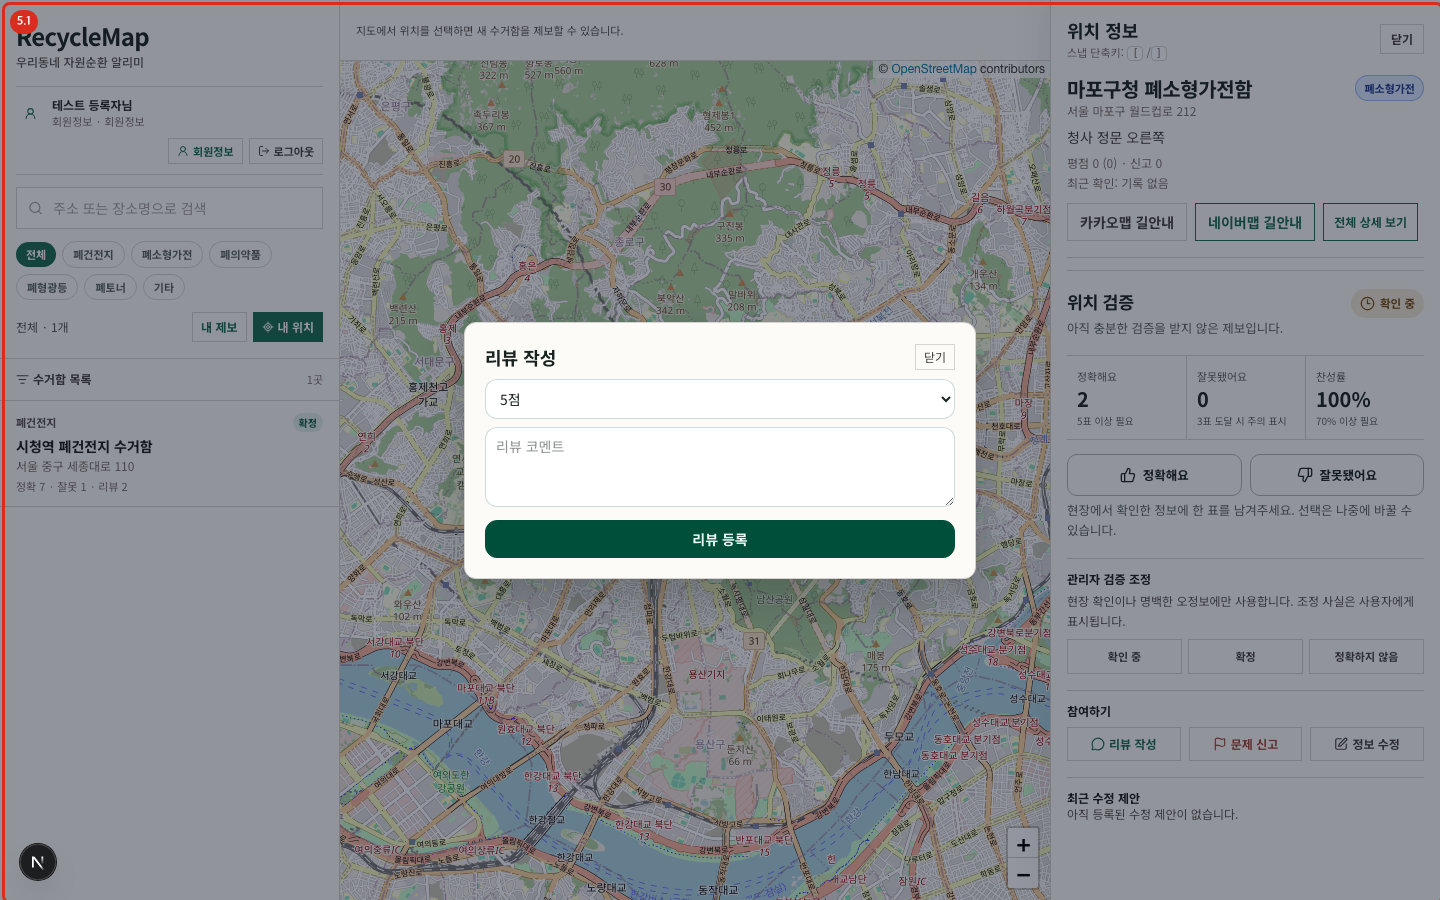
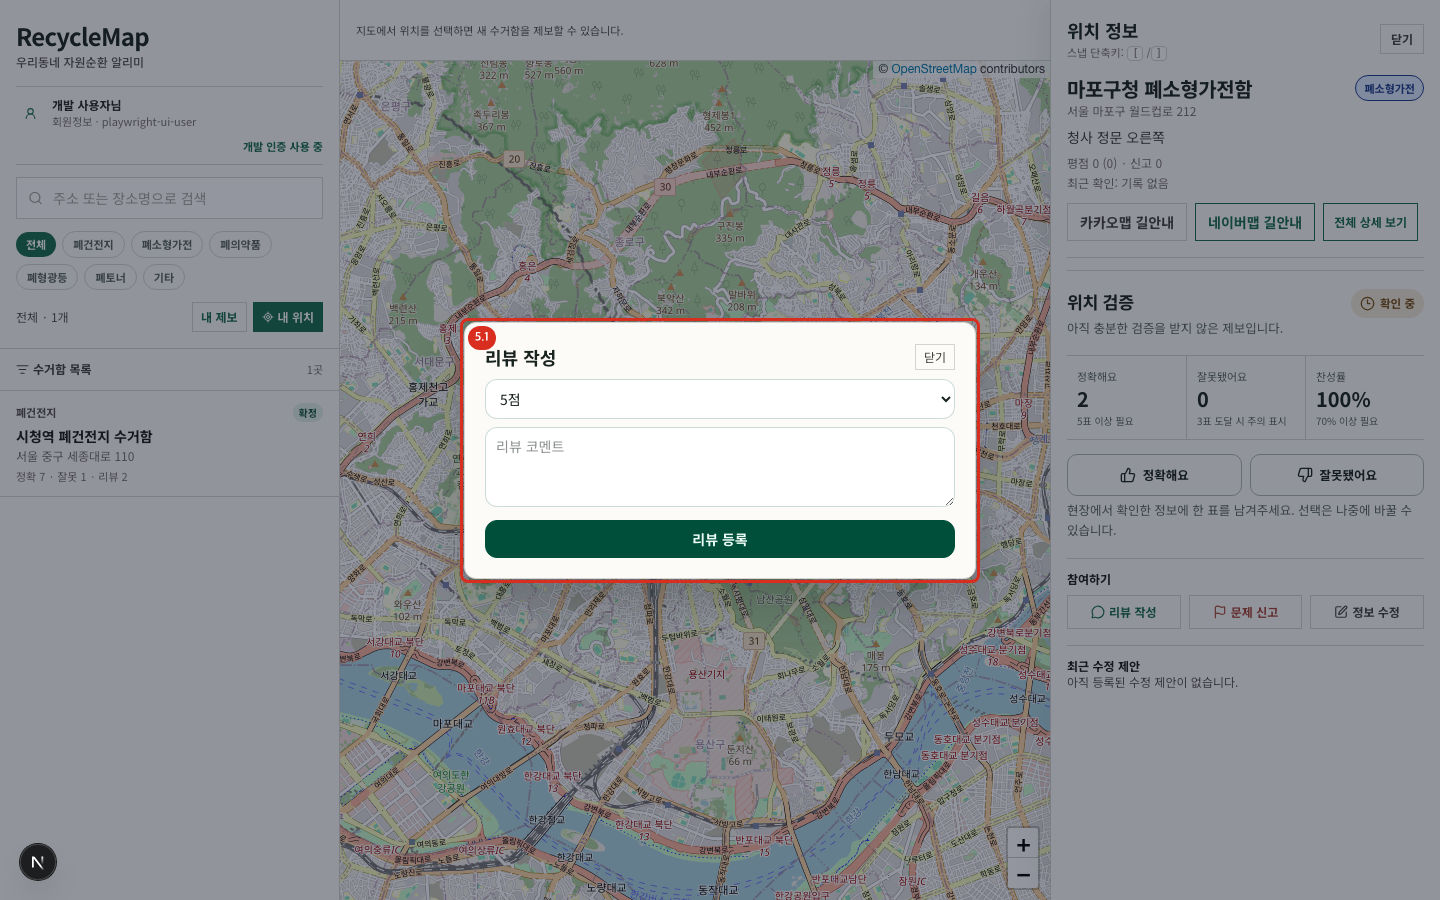
docs: finalize security operations manual

diff --git a/docs/manual/coverage-matrix.md b/docs/manual/coverage-matrix.md
@@ -30,6 +30,7 @@
 | REG-03 | 로그인 사용자 | 사진 업로드 | covered | [04](./04-register-location.md), [09](./09-qa-and-recovery.md) |
 | REG-04 | 로그인 사용자 | 50m 동일 분류 중복 | covered | [04](./04-register-location.md), `04-register-duplicate.png` |
 | REG-05 | 로그인 사용자 | 일일·요청 제한 | covered | [04](./04-register-location.md), [09](./09-qa-and-recovery.md) |
+| REG-06 | 로그인 사용자 | production signed upload·객체 검증 실패 | documented-limitation | [04](./04-register-location.md), [09](./09-qa-and-recovery.md): staging Supabase 필요 |
 | CONTRIB-01 | 로그인 사용자 | 리뷰 작성 | covered | [05](./05-reviews-reports-suggestions.md), `05-review-dialog.png` |
 | CONTRIB-02 | 로그인 사용자 | 문제 신고 | covered | [05](./05-reviews-reports-suggestions.md), `05-report-dialog.png` |
 | CONTRIB-03 | 로그인 사용자 | 정보 수정 제안 | covered | [05](./05-reviews-reports-suggestions.md), `05-suggestion-dialog.png` |
@@ -39,17 +40,20 @@
 | AUTH-01 | 방문자 | 테스트 계정 로그인 | covered | [07](./07-login-and-account.md), `07-login.png` |
 | AUTH-02 | 방문자 | 잘못된 계정 정보 | covered | [07](./07-login-and-account.md), `07-login-error.png` |
 | AUTH-03 | 방문자 | Google·Kakao·Naver 제공자 화면 | documented-limitation | [07](./07-login-and-account.md): 외부 제공자 UI |
+| AUTH-04 | 기존 사용자 | legacy OAuth 승인 매핑 실패 | documented-limitation | [07](./07-login-and-account.md), [09](./09-qa-and-recovery.md): 운영 인증 로그 필요 |
 | ACCOUNT-01 | 로그인 사용자 | 회원정보·빠른 이동·로그아웃 | covered | [07](./07-login-and-account.md), `07-account.png` |
 | ADMIN-01 | 관리자 | 관리자 접근 제어 | covered | [08](./08-admin-operations.md), [09](./09-qa-and-recovery.md) |
 | ADMIN-02 | 관리자 | 신고 필터·해결·기각 | covered | [08](./08-admin-operations.md), `08-admin-reports.png` |
 | ADMIN-03 | 관리자 | 제안 필터·적용·기각 | covered | [08](./08-admin-operations.md), `08-admin-suggestions.png` |
 | QA-01 | 운영자 | 자동 릴리스 검사 | covered | [09](./09-qa-and-recovery.md) |
 | QA-02 | 운영자 | DB·지도·업로드 장애 복구 | covered | [09](./09-qa-and-recovery.md) |
+| OPS-01 | 운영자 | migration·legacy 매핑·재암호화 전환 | covered | [09](./09-qa-and-recovery.md), [시스템 구조](../architecture.md) |
+| OPS-02 | 운영자 | 만료 업로드 정리 scheduler | covered | [09](./09-qa-and-recovery.md) |
 
 ## 집계
 
-- 전체: 41
-- covered: 38
-- documented-limitation: 3
+- 전체: 45
+- covered: 40
+- documented-limitation: 5
 - out-of-scope: 0
 - 미분류: 0

diff --git a/docs/manual/04-register-location.md b/docs/manual/04-register-location.md
@@ -25,7 +25,9 @@
 | 분류 | 실제 수거 품목과 일치하는 한 가지 분류 |
 | 주소 | 선택 사항. `주소 검색 (Daum 우편번호)`으로 찾거나 확인된 주소 입력 |
 | 상세 설명 | 운영 시간, 건물 안 위치, 접근 방법 등 현장 확인에 유용한 정보 |
-| 현장 사진 | 선택 사항, JPEG/PNG/WebP, 파일당 5MB 이하, 최대 5장 |
+| 현장 사진 | 선택 사항, JPEG/PNG/WebP 원본 파일당 50MB 이하, 한 번에 합계 150MB 이하, 최대 5장 |
+
+선택한 원본은 브라우저에서 긴 변 3840px·10MB 이하 WebP로 다시 인코딩됩니다. 이 과정에서 EXIF/GPS 같은 원본 메타데이터가 제거되며, 운영에서는 최적화된 파일만 private Storage에 직접 업로드됩니다. 서버 검증을 마쳐 `준비 완료`가 된 사진만 제보 등록 시 한 번 연결할 수 있습니다.
 
 > Daum 우편번호 검색창은 외부 스크립트가 여는 팝업이므로 브라우저 설정에 따라 모양이 달라집니다. 팝업이 차단되면 사이트 팝업을 허용하고 다시 시도합니다.
 
@@ -41,6 +43,8 @@
 - `일일 등록 한도(5건)를 초과했습니다`: 다음 날 등록하거나 운영자에게 대량 데이터 반영 절차를 문의합니다.
 - `스팸성 내용이 감지되었습니다`: 광고성 표현과 반복 문자를 제거합니다.
 - `요청이 너무 많습니다`: 잠시 기다린 뒤 한 번만 다시 제출합니다.
-- 사진 오류: 지원 형식과 5MB 제한을 확인하고 파일을 다시 선택합니다.
+- 사진 선택 오류: 원본 파일당 50MB, 선택 합계 150MB, 최대 5장인지 확인합니다.
+- 사진 최적화 오류: 해상도가 지나치게 크거나 10MB 이하로 변환할 수 없는 파일입니다. 사진 크기를 줄이거나 다시 촬영해 선택합니다.
+- 업로드·검증 오류: 네트워크와 Storage 설정을 확인한 뒤 해당 사진만 다시 선택합니다. 실패한 파일은 위치에 공개 연결되지 않으며 운영 정리 작업이 만료 객체를 제거합니다.
 
 제출 버튼을 여러 번 누르지 않습니다. 오류가 난 경우 화면 메시지를 먼저 확인해 실제 등록 여부를 판단합니다.

diff --git a/docs/manual/07-login-and-account.md b/docs/manual/07-login-and-account.md
@@ -7,9 +7,7 @@
 
 ![로그인 화면](./images/07-login.png)
 
-개발 환경에서는 역할별 테스트 계정을 선택하고 설정된 패스코드를 입력할 수 있습니다. 운영에서는 `ENABLE_TEST_ACCOUNTS=true`로 명시한 경우에만 테스트 계정 영역이 동작합니다. Google, Kakao, Naver 버튼은 해당 제공자의 클라이언트 ID와 비밀키가 모두 설정된 경우에만 표시됩니다.
-
-개발 전용 닉네임 로그인은 운영에서 비활성화됩니다.
+개발 환경에서는 역할별 테스트 계정을 선택하고 설정된 패스코드를 입력할 수 있습니다. 운영에서는 환경 변수와 관계없이 테스트 계정과 닉네임 로그인 영역이 표시되지 않고 인증도 거부됩니다. Google, Kakao, Naver 버튼은 해당 제공자의 클라이언트 ID와 비밀키가 모두 설정된 경우에만 표시됩니다.
 
 > 소셜 제공자의 동의·로그인 화면은 외부 서비스가 소유하므로 이 매뉴얼에서는 캡처하지 않습니다. 로그인 실패 시 제공자 화면의 메시지와 서비스 환경 변수, 등록된 callback URL을 함께 확인합니다.
 
@@ -18,9 +16,10 @@
 ![잘못된 테스트 계정 패스코드](./images/07-login-error.png)
 
 1. 선택한 테스트 계정과 패스코드를 다시 확인합니다.
-2. 운영 환경이라면 테스트 계정 기능이 활성화되었는지 운영자에게 확인합니다.
+2. 테스트 계정은 비운영 환경에서만 사용할 수 있으므로 운영에서는 소셜 로그인을 사용합니다.
 3. 소셜 로그인이라면 제공자 설정과 callback URL을 확인합니다.
-4. 실패가 반복되면 브라우저 쿠키를 지우기 전에 다른 브라우저나 비공개 창에서 재현 여부를 확인합니다.
+4. 기존 사용자만 실패하면 운영자가 승인한 `legacy_user_identity_mappings`와 기존/namespace 프로필 충돌 여부를 확인합니다. 매핑을 임의로 추정하지 않습니다.
+5. 실패가 반복되면 브라우저 쿠키를 지우기 전에 다른 브라우저나 비공개 창에서 재현 여부를 확인합니다.
 
 ## 회원정보
 

diff --git a/docs/manual/09-qa-and-recovery.md b/docs/manual/09-qa-and-recovery.md
@@ -6,14 +6,29 @@
 
 ```bash
 pnpm lint
+pnpm exec tsc --noEmit
 pnpm test
 pnpm test:e2e
+DATABASE_URL=<검증용-PostGIS-URL> pnpm test:db-security
 pnpm build
 pnpm security:audit
 pnpm predeploy:check:full
+pnpm docs:audit
 ```
 
-`predeploy:check:full`은 개발·운영 환경 파일, 필수 마이그레이션, 운영 HTTPS와 비밀키 길이, 서비스 역할 키, 개발 우회 기능 비활성화를 검사합니다. 실제 값은 출력이나 문서에 복사하지 않습니다.
+`test:db-security`는 운영 DB가 아닌 폐기 가능한 PostGIS DB에서 migration을 처음부터 적용하고 RLS·권한·데이터 보존·원자 사진 연결·legacy OAuth 매핑을 검증합니다. `predeploy:check:full`은 개발·운영 환경 파일, 필수 migration, 운영 HTTPS와 비밀키 길이, 서비스 역할 키, 암호화 키, 저장소 모드, 개발 우회 기능 비활성화를 검사합니다. 실제 값은 출력이나 문서에 복사하지 않습니다.
+
+## 운영 보안 전환
+
+1. 운영 DB와 private Storage를 백업합니다.
+2. `supabase/migrations`를 시간순으로 적용합니다.
+3. 기존 raw OAuth ID는 인증 로그로 provider를 확인한 경우에만 `legacy_user_identity_mappings`에 승인합니다.
+4. `pnpm security:reencrypt` dry-run 후 `pnpm security:reencrypt -- --apply`를 실행합니다.
+5. `pnpm security:verify-encryption`이 성공하는지 확인합니다.
+6. 정상·변조·타 사용자 사진으로 signed upload smoke를 수행하고 OAuth callback을 실제 제공자별로 확인합니다.
+7. 만료 업로드 정리를 위해 `pnpm security:cleanup-uploads`를 하루 한 번 실행하도록 scheduler를 설정합니다.
+
+실제 OAuth 제공자, Supabase Storage CORS, 만료 서명 token과 운영 scheduler는 로컬 fixture만으로 동일하게 재현할 수 없습니다. 운영과 분리된 staging 프로젝트에서 확인 결과를 배포 증적으로 남깁니다.
 
 ## 수동 핵심 시나리오
 

diff --git a/docs/architecture.md b/docs/architecture.md
@@ -14,12 +14,16 @@ flowchart LR
   G --> R[Data Repository]
   R -->|기본 운영 경로| S[(Supabase PostgreSQL)]
   R -->|명시적 로컬/테스트 경로| M[(메모리 저장소)]
-  A --> F[(로컬 업로드 디렉터리)]
+  A -->|운영 서명·완료 검증| P[(private Supabase Storage)]
+  B -->|운영 signed direct upload| P
+  A -->|개발 전용| F[(로컬 업로드 디렉터리)]
   B -->|지도 타일| T[구성 가능한 타일 제공자\n기본 OpenStreetMap]
   N --> O[NextAuth\nCredentials / Google / Kakao / Naver]
 ```
 
 브라우저는 TanStack Query로 서버 데이터를 가져오고 Zustand로 지도·모바일 작업면 상태를 관리합니다. 지도 목록과 상세는 `/api/points` 계열 Route Handler를 사용합니다. `data-repository.ts`가 Supabase 행과 앱 도메인 타입 사이를 변환하며, `FORCE_LOCAL_STORE=true`일 때 반복 가능한 로컬 메모리 데이터를 사용합니다.
+
+운영 사진은 브라우저가 `/api/upload/intent`에서 받은 일회성 서명으로 private Storage에 직접 전송합니다. `/api/upload/:id/complete`가 저장 객체를 다시 내려받아 검증한 뒤에만 위치에 연결할 수 있습니다. 로컬 디렉터리 업로드 API는 production에서 `410`으로 차단됩니다.
 
 ## 주요 요청 흐름
 
